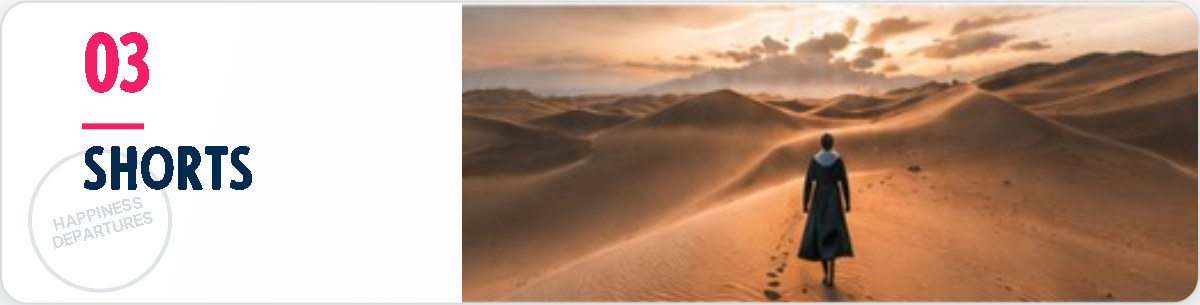
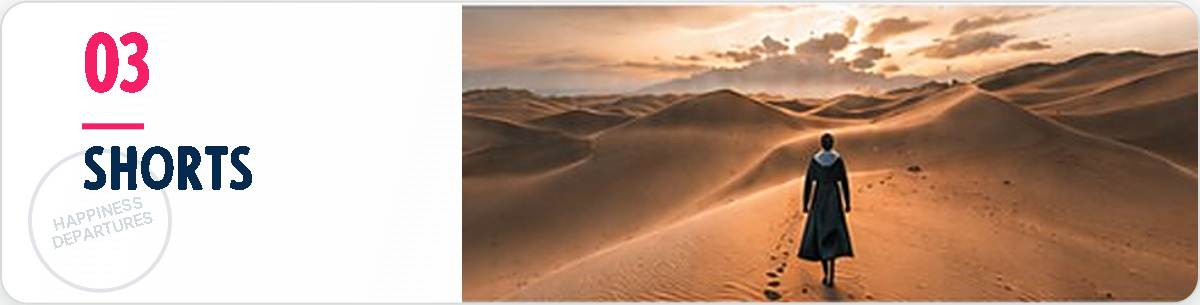
HD

diff --git a/README.md b/README.md
@@ -59,6 +59,33 @@ be exported again:
 
 ---
 
+## Image quality
+
+Every section ships at **1200px** wide and displays at 600px — 2x on a laptop,
+over 3x on a phone. Saved at JPEG quality 94.
+
+The photos inside the original package were small, so they were upsampled with
+Lanczos and sharpened **before** rendering, rather than letting the browser
+stretch them:
+
+| Photo | In the package | Prepared at |
+|---|---|---|
+| hero | 641 x 264 | 1500 x 618 |
+| coast | 376 x 144 | 900 x 345 |
+| tokyo | 379 x 117 | 900 x 278 |
+| desert | 480 x 131 | 900 x 246 |
+| banff | 309 x 129 | 860 x 359 |
+| island / aurora / city / lagoon | 311 x ~90 | already large enough, untouched |
+
+Total image weight: **about 1 MB**.
+
+**For true HD there is one thing only the source can give:** the full-size
+originals of those five photos. Sharpening recovers definition, but it cannot
+put back detail that was never in a 309px file. If the originals are exported at
+around 1200-1500px wide, they can be dropped straight in and re-rendered.
+
+---
+
 ## Fonts — trvler.co's own
 
 The original package used Georgia and Arial Narrow. Everything now uses the
